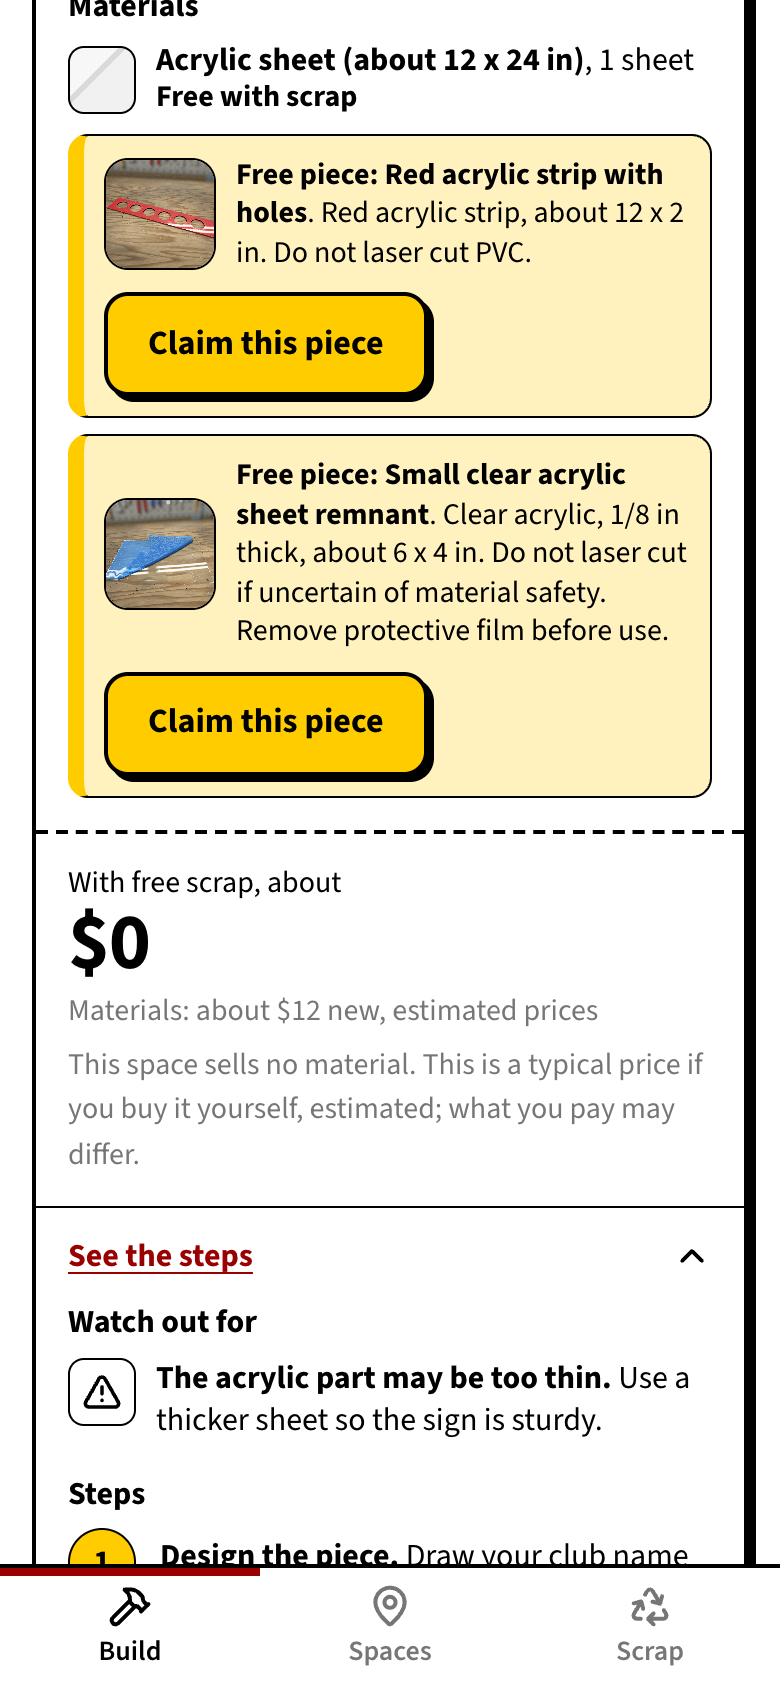
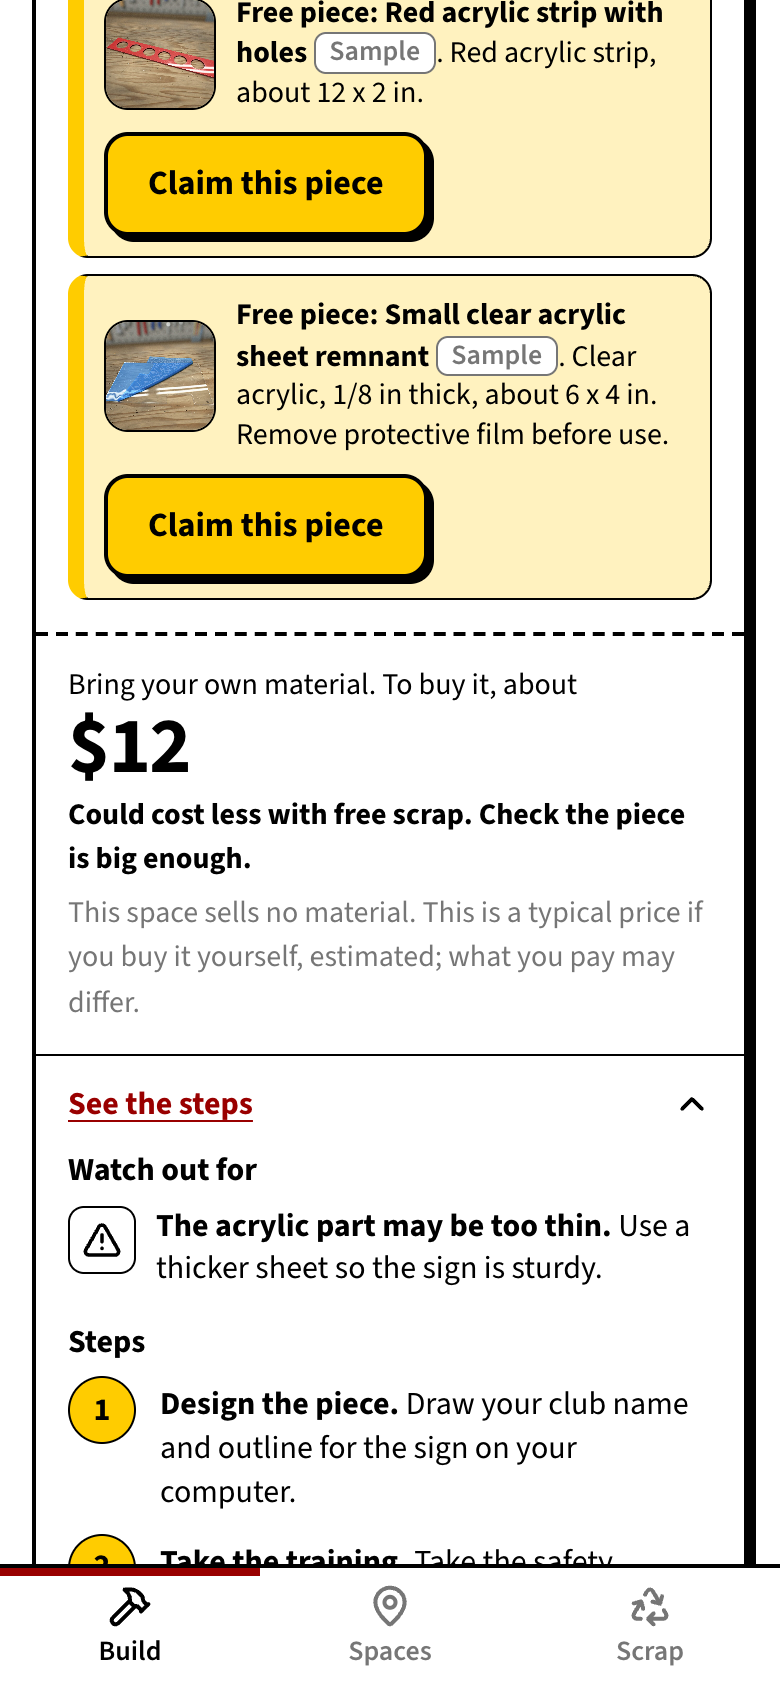
Sample scrap: no with-scrap dollar figure in plans (a sentence instead), gray Sample tag wherever a sample item shows, five listings corrected

diff --git a/src/components/plan/plan-view.tsx b/src/components/plan/plan-view.tsx
@@ -1,11 +1,13 @@
 import { ChevronDown, CircleAlert, GraduationCap, TriangleAlert, Wrench } from "lucide-react";
 import Link from "next/link";
-import { EligibilityBadge } from "@/components/badges";
+import { EligibilityBadge, SampleTag } from "@/components/badges";
 import { Band, Body, primaryBtn, secondaryBtn } from "@/components/page";
 import { SampleBanner } from "@/components/sample-banner";
 import { Swatch } from "@/components/swatch";
 import type { FinalRoute } from "@/lib/compute/plan";
 import { moneyRange, quantity } from "@/lib/format";
+import { isSample } from "@/lib/sample";
+import { SCRAP_TOTAL_NOTE, costStub } from "./cost-stub";
 import type { PlanView as PlanData } from "@/lib/plans";
 import { CopyLink } from "./copy-link";
 import { PlanClaim } from "./plan-claim";
@@ -123,8 +125,6 @@ function uniqueSpaces(routes: FinalRoute[]): FinalRoute[] {
   return routes.filter((r) => (seen.has(r.space_id) ? false : (seen.add(r.space_id), true)));
 }
 
-const bare = (r: { low: number; high: number }) => moneyRange(r).replace(/^about /, "");
-
 /** "about $6" for a listed price; for the general table, who buys it is spelled out. */
 function costText(l: { low_usd: number | null; high_usd: number | null; typical?: boolean }, bringYourOwn: boolean): string {
   const range = moneyRange({ low: l.low_usd!, high: l.high_usd! });
@@ -136,7 +136,7 @@ function costText(l: { low_usd: number | null; high_usd: number | null; typical?
 function RouteCard({ route: r, top, n, of, planId, spaceNames }: { route: FinalRoute; top: boolean; n: number; of: number; planId: string; spaceNames: Record<string, string> }) {
   const hid = `route-${n}`;
   const anyFree = r.scrap.some((s) => s.length > 0);
-  const est = r.prices_estimated ? ", estimated prices" : "";
+  const stub = costStub(r, anyFree);
   return (
     <article aria-labelledby={hid} className="card drop-in relative" style={{ animationDelay: `${(n - 1) * 120}ms` }}>
       {r.labels.length > 0 && (
@@ -253,6 +253,7 @@ function RouteCard({ route: r, top, n, of, planId, spaceNames }: { route: FinalR
                         )}
                         <p className="min-w-40 flex-1 text-[15px] leading-[1.3]">
                           <b>Free piece: {s.title}</b>
+                          {isSample(s.description) && <> <SampleTag /></>}
                           {s.size_note ? `. ${s.size_note}` : ""}
                           {s.space_id !== r.space_id ? `. At another space: ${spaceNames[s.space_id] ?? s.space_id}` : ""}
                           {s.restrictions.length > 0 ? `. ${s.restrictions.join(". ")}` : ""}.
@@ -270,24 +271,16 @@ function RouteCard({ route: r, top, n, of, planId, spaceNames }: { route: FinalR
 
       {r.cost_lines.length > 0 && (
         <div className="stub space-y-1 px-4 py-3.5">
-          {r.total ? (
-            anyFree && r.with_scrap ? (
-              <>
-                <p>
-                  <span className="block text-[15px]">With free scrap, about</span>
-                  <span className="figure block">{bare(r.with_scrap)}</span>
-                </p>
-                <p className="text-[15px] text-gray-text tabular">Materials: {moneyRange(r.total)} new{est}</p>
-              </>
-            ) : (
-              <>
-                <p>
-                  <span className="block text-[15px]">{r.typical_from ? (r.bring_your_own ? "Bring your own material. To buy it, about" : "Materials, if you buy them yourself, about") : "Materials, about"}</span>
-                  <span className="figure block">{bare(r.total)}</span>
-                </p>
-                {r.prices_estimated && !r.typical_from && <p className="text-[15px] text-gray-text">Estimated prices</p>}
-              </>
-            )
+          {stub ? (
+            <>
+              <p>
+                <span className="block text-[15px]">{stub.label}</span>
+                <span className="figure block">{stub.figure}</span>
+              </p>
+              {stub.notes.map((n) => (
+                <p key={n} className={n === SCRAP_TOTAL_NOTE ? "text-[15px] font-bold" : "text-[15px] text-gray-text"}>{n}</p>
+              ))}
+            </>
           ) : (
             <>
               <p className="text-[22px] font-bold leading-[1.15]">{r.bring_your_own ? "Bring your own material" : "Ask staff for prices"}</p>

diff --git a/src/components/plan/cost-stub.test.ts b/src/components/plan/cost-stub.test.ts
@@ -1,0 +1,37 @@
+import { describe, expect, it } from "vitest";
+import { isSample, SAMPLE_LINE } from "@/lib/sample";
+import { SCRAP_TOTAL_NOTE, costStub } from "./cost-stub";
+
+const priced = { total: { low: 12, high: 12 }, typical_from: null, prices_estimated: true };
+
+describe("the cost stub never shows a with-scrap dollar figure", () => {
+  it("shows the price new, and a sentence instead of a lower total, when a free piece matches", () => {
+    const s = costStub(priced, true)!;
+    expect(s.figure).toBe("$12");
+    expect(s.label).toBe("Materials, about");
+    expect(s.notes).toEqual(["Estimated prices", SCRAP_TOTAL_NOTE]);
+    expect(JSON.stringify(s)).not.toMatch(/\$0|With free scrap/);
+  });
+  it("says nothing about scrap when no piece matches", () => {
+    expect(costStub(priced, false)!.notes).toEqual(["Estimated prices"]);
+  });
+  it("keeps the bring-your-own wording where the space sells no material", () => {
+    const s = costStub({ total: { low: 12, high: 12 }, typical_from: "typical price if you buy it yourself", bring_your_own: true, prices_estimated: true }, true)!;
+    expect(s.label).toBe("Bring your own material. To buy it, about");
+    expect(s.notes).toEqual([SCRAP_TOTAL_NOTE]);
+  });
+  it("has no figure at all when nothing is priced", () => {
+    expect(costStub({ total: null, typical_from: null, prices_estimated: true }, true)).toBeNull();
+  });
+  it("the sentence is the agreed one", () => {
+    expect(SCRAP_TOTAL_NOTE).toBe("Could cost less with free scrap. Check the piece is big enough.");
+  });
+});
+
+describe("sample items", () => {
+  it("are told by the sentence that ends their description", () => {
+    expect(isSample(`A small piece of plywood. ${SAMPLE_LINE}`)).toBe(true);
+    expect(isSample("A small piece of plywood.")).toBe(false);
+    expect(isSample(null)).toBe(false);
+  });
+});

diff --git a/src/app/spaces/[id]/page.tsx b/src/app/spaces/[id]/page.tsx
@@ -3,11 +3,12 @@ import type { Metadata } from "next";
 import Link from "next/link";
 import { notFound } from "next/navigation";
 import { Suspense } from "react";
-import { EstimatedNote, FactChip } from "@/components/badges";
+import { EstimatedNote, FactChip, SampleTag } from "@/components/badges";
 import { Band, Body } from "@/components/page";
 import { Swatch } from "@/components/swatch";
 import { AccessSection } from "@/components/spaces/access-section";
 import { AUDIENCE_LABELS, CAPABILITY_LABELS, WEEKDAY_LABELS, formatDate, formatTime } from "@/lib/labels";
+import { isSample } from "@/lib/sample";
 import { AUDIENCES, CAPABILITIES, WEEKDAYS, type GroupStatus, type Material, type SpaceDoc } from "@/lib/schemas";
 import { getAvailableScrap, getSpace, type ScrapCard } from "@/lib/spaces";
 import { TYPICAL_PRICES, TYPICAL_PRICES_LABEL } from "@/lib/typical-prices";
@@ -290,6 +291,7 @@ function SpaceView({ space, scrap }: { space: SpaceDoc; scrap: ScrapCard[] }) {
                       <Swatch category={s.material_category} className="h-[84px] w-full" />
                     )}
                     <b className="mt-2 block leading-[1.2]">{s.title}</b>
+                    {isSample(s.description) && <span className="block"><SampleTag /></span>}
                     {s.size_note && <span className="block text-[15px] leading-[1.3] text-gray-text">{s.size_note}</span>}
                   </Link>
                 </li>

diff --git a/src/components/plan/cost-stub.ts b/src/components/plan/cost-stub.ts
@@ -1,0 +1,30 @@
+import { moneyRange } from "@/lib/format";
+
+/**
+ * Scrap is matched by kind of material, never by size, so a plan must not
+ * promise a lower total. Shown instead of a with-scrap dollar figure.
+ */
+export const SCRAP_TOTAL_NOTE = "Could cost less with free scrap. Check the piece is big enough.";
+
+type StubRoute = {
+  total: { low: number; high: number } | null;
+  typical_from?: string | null;
+  bring_your_own?: boolean;
+  prices_estimated: boolean;
+};
+
+/**
+ * The words on a route's cost stub when it has a total. The figure is always
+ * the price of the materials new; a free scrap match adds a sentence, never
+ * a second, lower figure.
+ */
+export function costStub(r: StubRoute, anyFree: boolean): { label: string; figure: string; notes: string[] } | null {
+  if (!r.total) return null;
+  const label = r.typical_from
+    ? r.bring_your_own ? "Bring your own material. To buy it, about" : "Materials, if you buy them yourself, about"
+    : "Materials, about";
+  const notes: string[] = [];
+  if (r.prices_estimated && !r.typical_from) notes.push("Estimated prices");
+  if (anyFree) notes.push(SCRAP_TOTAL_NOTE);
+  return { label, figure: moneyRange(r.total).replace(/^about /, ""), notes };
+}

diff --git a/src/components/scrap/scrap-bin.tsx b/src/components/scrap/scrap-bin.tsx
@@ -8,6 +8,8 @@ import { Band, Body, primaryBtn, secondaryBtn } from "@/components/page";
 import { Swatch } from "@/components/swatch";
 import { CONDITION_LABELS, MATERIAL_LABELS } from "@/lib/labels";
 import { MATERIAL_CATEGORIES, type MaterialCategory } from "@/lib/schemas";
+import { SampleTag } from "@/components/badges";
+import { isSample } from "@/lib/sample";
 import { ClaimButton } from "./claim";
 
 type Item = {
@@ -160,6 +162,7 @@ export function ScrapBin() {
                       <Photo item={item} className="aspect-[4/3] w-full overflow-hidden rounded-lg border-[1.5px] border-black" />
                       <span className="flex flex-1 flex-col gap-0.5 px-1 pt-2">
                         <b className="leading-[1.2]">{item.title}</b>
+                        {isSample(item.description) && <span><SampleTag /></span>}
                         <span className="text-[15px] leading-[1.3] text-gray-text">
                           {MATERIAL_LABELS[item.material_category]} · {CONDITION_LABELS[item.condition].toLowerCase()}
                         </span>

diff --git a/src/components/home-extras.tsx b/src/components/home-extras.tsx
@@ -1,7 +1,9 @@
 import Link from "next/link";
 import { connection } from "next/server";
+import { SampleTag } from "@/components/badges";
 import { Body } from "@/components/page";
 import { Swatch } from "@/components/swatch";
+import { isSample } from "@/lib/sample";
 import { listAvailable } from "@/lib/scrap";
 
 export function HowItWorks() {
@@ -54,6 +56,7 @@ export async function FreeNow() {
                   <Swatch category={item.material_category} className="h-[84px] w-full" />
                 )}
                 <b className="mt-2 block leading-[1.2]">{item.title}</b>
+                {isSample(item.description) && <span className="block"><SampleTag /></span>}
                 {item.size_note && <span className="block text-[15px] leading-[1.3] text-gray-text">{item.size_note}</span>}
               </Link>
             </li>

diff --git a/src/lib/spaces.ts b/src/lib/spaces.ts
@@ -43,6 +43,7 @@ export async function getSpaceRaw(id: string): Promise<SpaceDoc | null> {
 export type ScrapCard = {
   id: string;
   title: string;
+  description: string | null;
   material_category: string;
   size_note: string | null;
   condition: string;
@@ -53,7 +54,7 @@ export type ScrapCard = {
 export async function getAvailableScrap(spaceId: string): Promise<ScrapCard[]> {
   const { data, error } = await db()
     .from("scrap_items")
-    .select("id, title, material_category, size_note, condition, photo_url")
+    .select("id, title, description, material_category, size_note, condition, photo_url")
     .eq("space_id", spaceId)
     .eq("status", "available")
     .gt("expires_at", new Date().toISOString())

diff --git a/src/app/globals.css b/src/app/globals.css
@@ -262,6 +262,19 @@
     background: var(--white);
     transform: rotate(-2deg);
   }
+  .tag-sample {
+    display: inline-block;
+    white-space: nowrap;
+    font-size: 14px;
+    font-weight: 600;
+    line-height: 1.3;
+    padding: 0 7px;
+    border: 1.5px solid var(--gray-text);
+    border-radius: 6px;
+    background: var(--white);
+    color: var(--gray-text);
+    vertical-align: 1px;
+  }
   .tag-free {
     position: absolute;
     top: -8px;

diff --git a/src/lib/sample.ts b/src/lib/sample.ts
@@ -1,0 +1,7 @@
+/** The sentence that ends the description of every demo sample item in the scrap bin. */
+export const SAMPLE_LINE = "Sample item. Generated photo, not real Maker Space stock.";
+
+/** True for a scrap item posted as a demo sample, told by its description. */
+export function isSample(description: string | null | undefined): boolean {
+  return (description ?? "").trim().endsWith(SAMPLE_LINE);
+}

diff --git a/src/components/badges.tsx b/src/components/badges.tsx
@@ -70,3 +70,8 @@ export function EstimatedNote({ label = "Estimated" }: { label?: string }) {
     </details>
   );
 }
+
+/** Marks a demo sample item in the scrap bin, wherever the item is shown. */
+export function SampleTag() {
+  return <span className="tag-sample">Sample</span>;
+}

diff --git a/src/lib/compute/scrapMatch.ts b/src/lib/compute/scrapMatch.ts
@@ -5,6 +5,8 @@ export type ScrapItem = {
   space_id: string;
   material_category: string;
   title: string;
+  /** Carried through for display only; matching never reads it. */
+  description?: string;
   size_note: string | null;
   condition: string;
   restrictions: string[];

diff --git a/NEEDS.md b/NEEDS.md
@@ -37,12 +37,12 @@ The `ai_usage` table exists in your Supabase project (checked Nov 15), so the li
 - **Why:** everything so far uses one drawn stand-in (`data/samples/scrap-standin.jpg`). The M4 check "a real offcut photo yields a sensible draft" and M2b's scrap check need real photos, and the demo needs real pieces in the bin.
 - **Where:** save them in `data/samples/real/` (any names), or post them yourself: sign in as staff, Staff portal, Post scrap.
 
-### 5b. Sample scrap is in the bin: four things to decide
-Ten sample items made from generated photos are published at the Maker Space (see `reports/sample-scrap.md`).
-- **The club sign plan shows "$0 with free scrap"** because two acrylic pieces match by material. Both are far smaller than the 12-inch sign. The app matches scrap by kind of material, never by size. I did not change that, because it is part of how plans are made. Decide whether to demo that plan as it is, or remove the two acrylic items.
-- **The sample sentence shows only when a piece is opened**, not on the Scrap tab cards, the Maker Space strip or the plan. Say if you want it somewhere more visible.
-- **Two drafted warnings are wrong** ("Do not laser cut PVC" on the plywood and the red acrylic). I left the model's words alone. You can edit or remove the items in the staff portal.
-- **Before real use, remove them:** `KEEP_SAMPLES=0 npm run clean:test`. Without that setting the cleanup keeps them.
+### 5b. Sample scrap is in the bin: what is left for you
+Ten sample items made from generated photos are published at the Maker Space (see `reports/sample-scrap.md`). The "$0" total, the Sample tag and the five listing fixes are done.
+- **The deck still shows the old wording.** `deck/assets/plan-cost.png` and its alt text in `deck/index.html` show "$0 with free scrap". I did not touch the deck. Say if you want the screenshot retaken.
+- **SPEC.md still describes the old behaviour** (section on scrap matches, and the M4 checklist line "its with-scrap total drops"). The number is still computed and still decides "Cheapest"; it is just no longer shown.
+- **A material line still reads "Free with scrap"** above a matched piece. You asked only about the total, so I left it.
+- **Before real use, remove the samples:** `KEEP_SAMPLES=0 npm run clean:test`. Without that setting the cleanup keeps them.
 
 ### 6. Confirm the scrap lists in the portal
 Your supervisor has approved the scrap exchange, so it is no longer described as a proposed pilot. The may-post and never-post lists still show as estimated until you confirm them with your real account.
